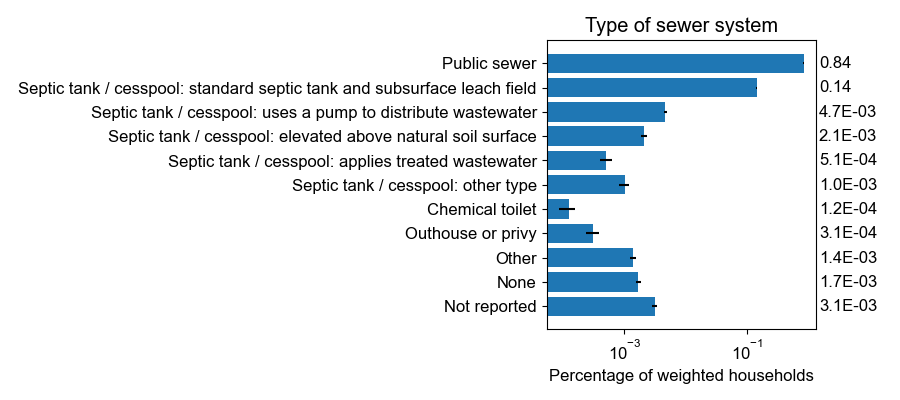
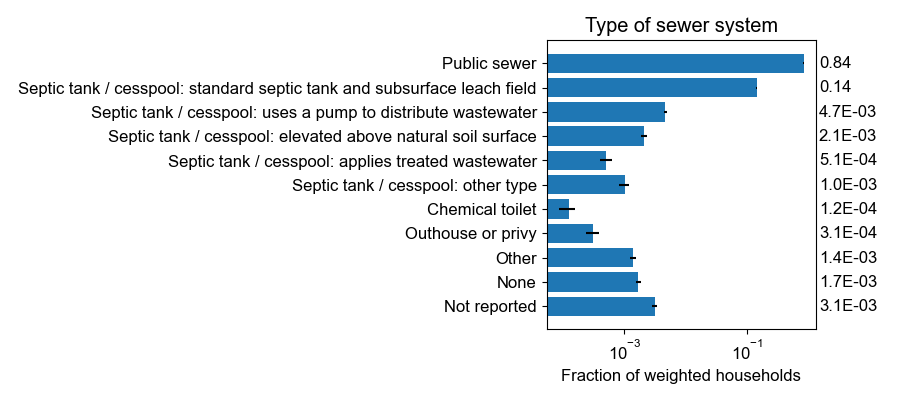
fixed typo in figure axis label

Changed region(s): [[0.5911, 0.93, 0.9022, 0.96]]

diff --git a/scripts/ahs_2019_2021_functions.py b/scripts/ahs_2019_2021_functions.py
@@ -339,7 +339,7 @@ def plot_cat_var(ahsn, labels, ahsdict, cat_var, figsize = (4,8), plot_err = Tru
     plt.gca().invert_yaxis()
     plt.xscale('log')
     plt.ylabel('')
-    plt.xlabel('Percentage of weighted households')
+    plt.xlabel('Fraction of weighted households')
     plt.title(ahsdict[ahsdict['Variable'] == cat_var]['Description'].values[0])
     plt.tight_layout()
     return fig
